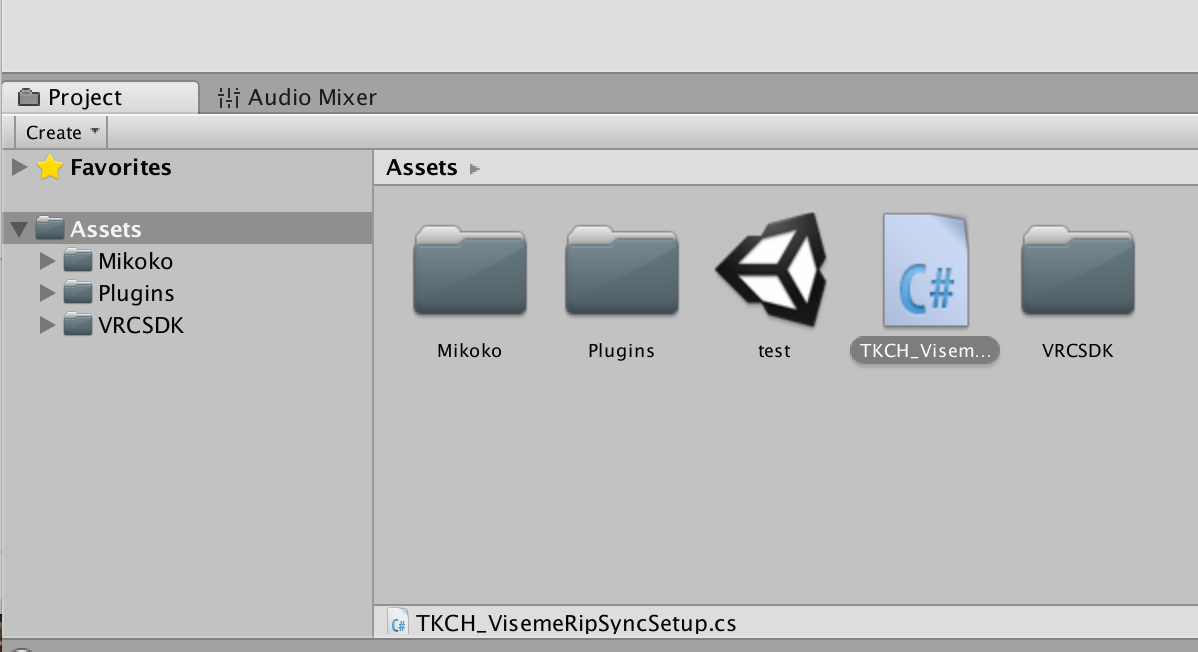
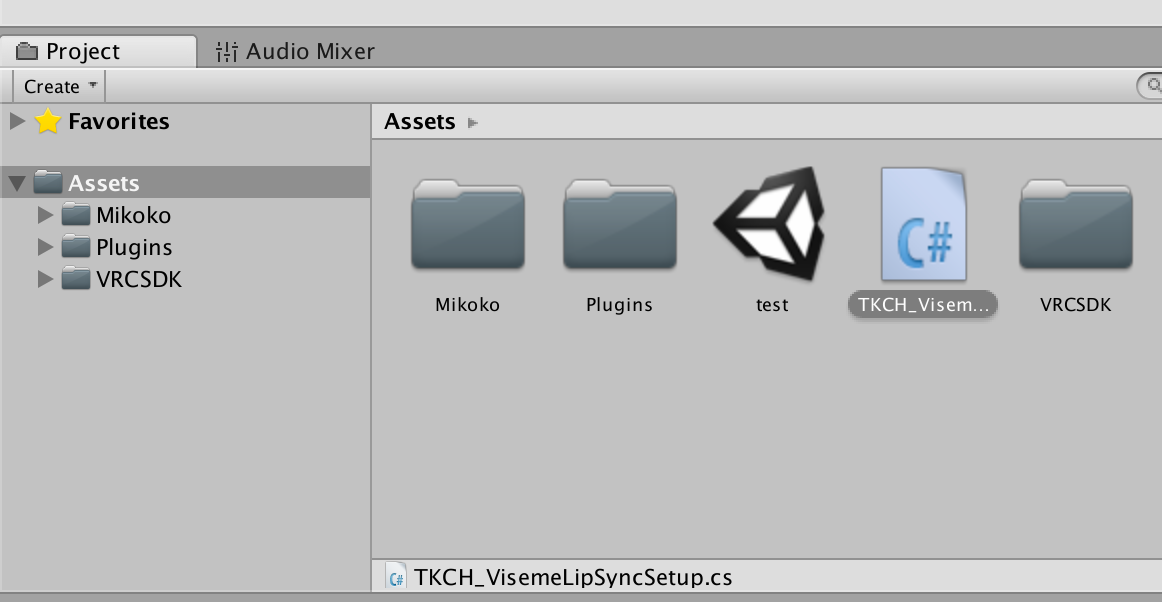
first commit

Changed region(s): [[0.0, 0.0299, 1.0, 1.0], [0.6196, 0.5382, 0.6506, 0.5681]]

diff --git a/TKCH_VisemeLipSyncSetup.cs b/TKCH_VisemeLipSyncSetup.cs
@@ -1,15 +1,14 @@
-using System.Collections;
+using System.Collections;
 using System.Collections.Generic;
 using System;
 using UnityEngine;
 using UnityEditor;
 using VRCSDK2;
-using System.Threading;
 
 public class TKCH_AvatarSetup
 {
-	[MenuItem("CONTEXT/VRC_AvatarDescriptor/VisemeRipSyncSetup")]
-	private static void visemeRipSyncSetup(MenuCommand command)
+	[MenuItem("CONTEXT/VRC_AvatarDescriptor/VisemeLipSyncSetup")]
+	private static void visemeLipSyncSetup(MenuCommand command)
 	{
 		if (!EditorUtility.DisplayDialog (
 			"Custom Script Message", "Lip Sync を Viseme に自動設定します。続行しますか？", 
